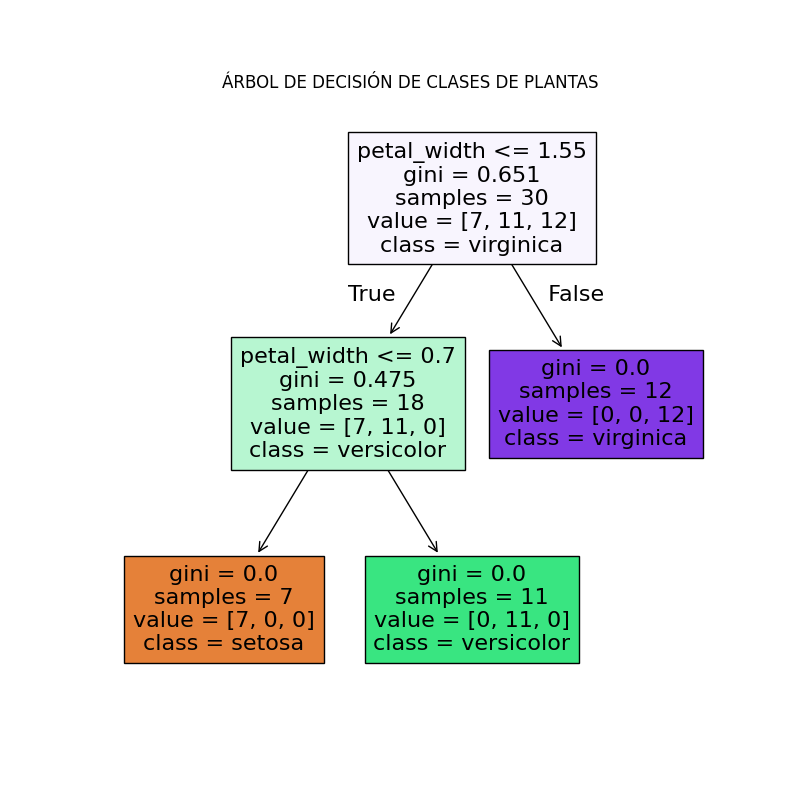
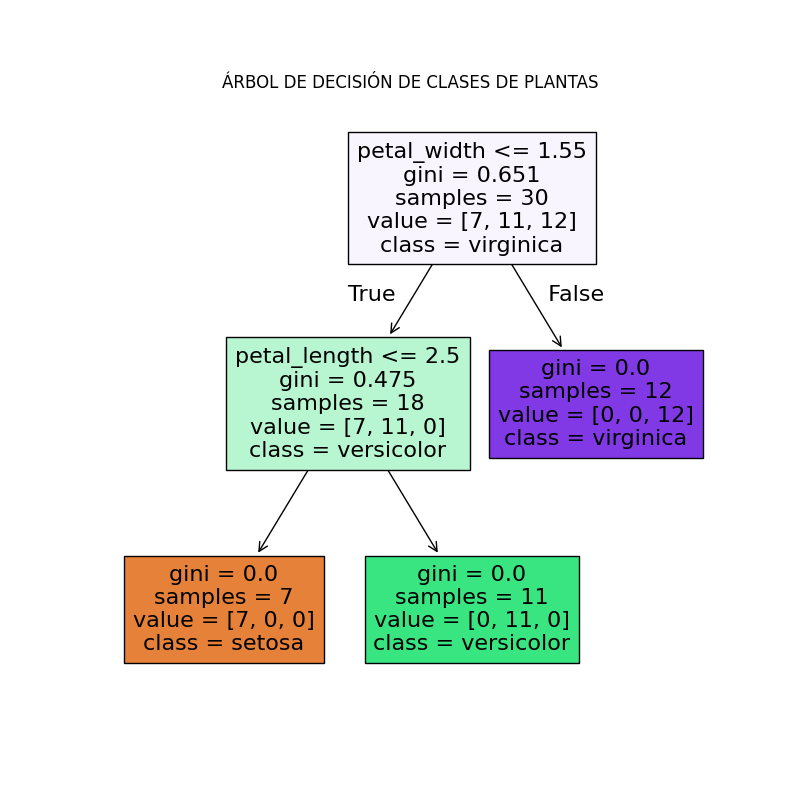
Modified DecisionTree

Changed region(s): [[0.2812, 0.4062, 0.5938, 0.5938]]

diff --git a/archivos_py/machine_learning/Supervised_Learning/arboles_de_decision.py b/archivos_py/machine_learning/Supervised_Learning/arboles_de_decision.py
@@ -38,3 +38,33 @@ plt.show() #Mostramos el modelo
 #Filled = True: rellena en colores por clase
 #class_names: agrega nombre a cada clase
 #feature_names: visualizamos las columnas por su nommbre en vez de la indexación
+
+#OTRO EJEMPLO DE ESTE ALGORITMO
+data2 = {
+    'Edad': [22, 25, 30, 35, 40, 45, 50, 55, 60, 65],
+    'Salario': [25000, 30000, 35000, 40000, 50000, 60000, 65000, 70000, 80000, 90000],
+    'Compra': [0, 0, 0, 1, 1, 1, 1, 1, 1, 1]
+}
+
+df2 = pd.DataFrame(data2)
+#separar las variables
+X = df2[['Edad','Salario']]
+y = df2['Compra']
+#Dividir los datos en %80 entrenamiento y %20 prueba
+X2_entrena,X2_prueba,y2_entrena,y2_prueba = train_test_split(X,y,train_size=0.8,random_state=42)
+#entrenamos el modelo 2
+model2 = DecisionTreeClassifier(max_depth=5)
+model2.fit(X2_entrena,y2_entrena)
+#--------------------Evaluar el modelo con los datos de prueba-------------------------
+score = model2.score(X2_prueba,y2_prueba)
+print(f"Precisión del modelo: {score:.2f}")
+#Visualizar el segundo arbol de decision
+plt.figure(figsize=(8,8))
+plot_tree(decision_tree=model2,
+          filled=True,
+          class_names=['No compra','Compra'],
+          feature_names=['Edad','Salario'])
+plt.title("ÁRBOL DE DECISION DE PROBABILIDADES DE COMPRA EN EDAD/SALARIO",fontsize=16)
+plt.show() #Mostramos el árbol de decision
+
+#La máxima precisión que puede alcanzar un modelo es de 1.0